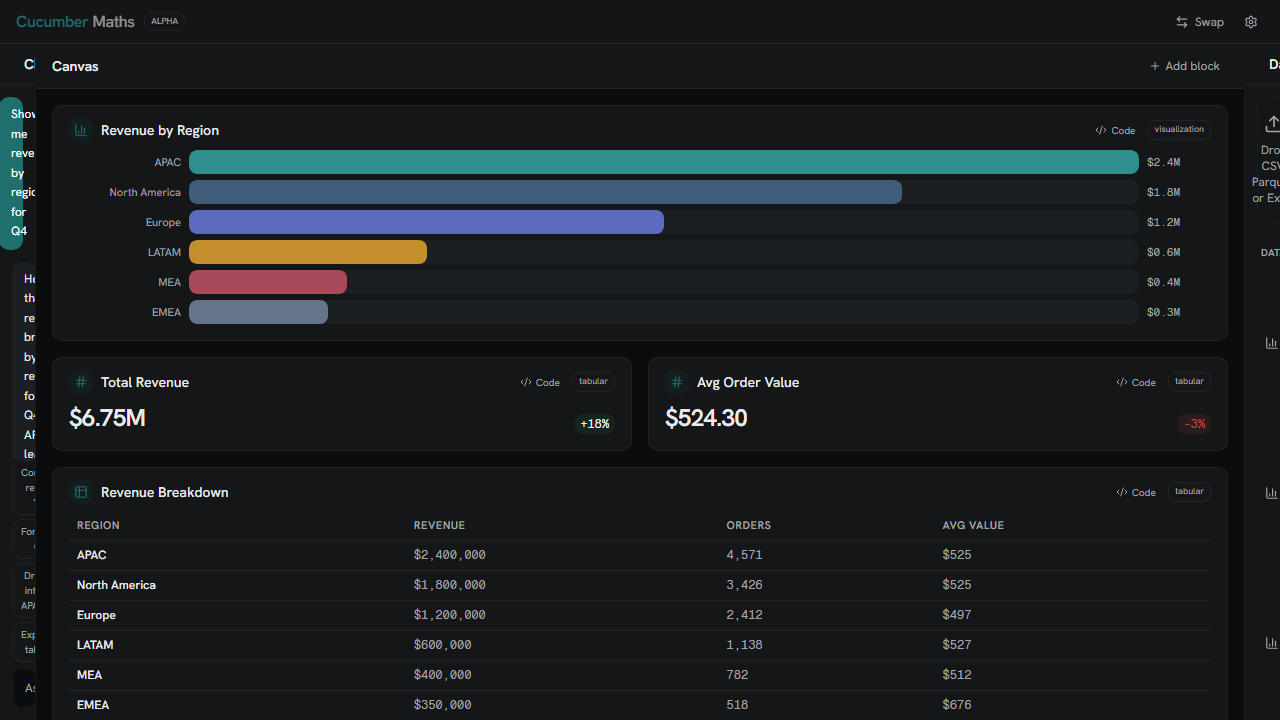
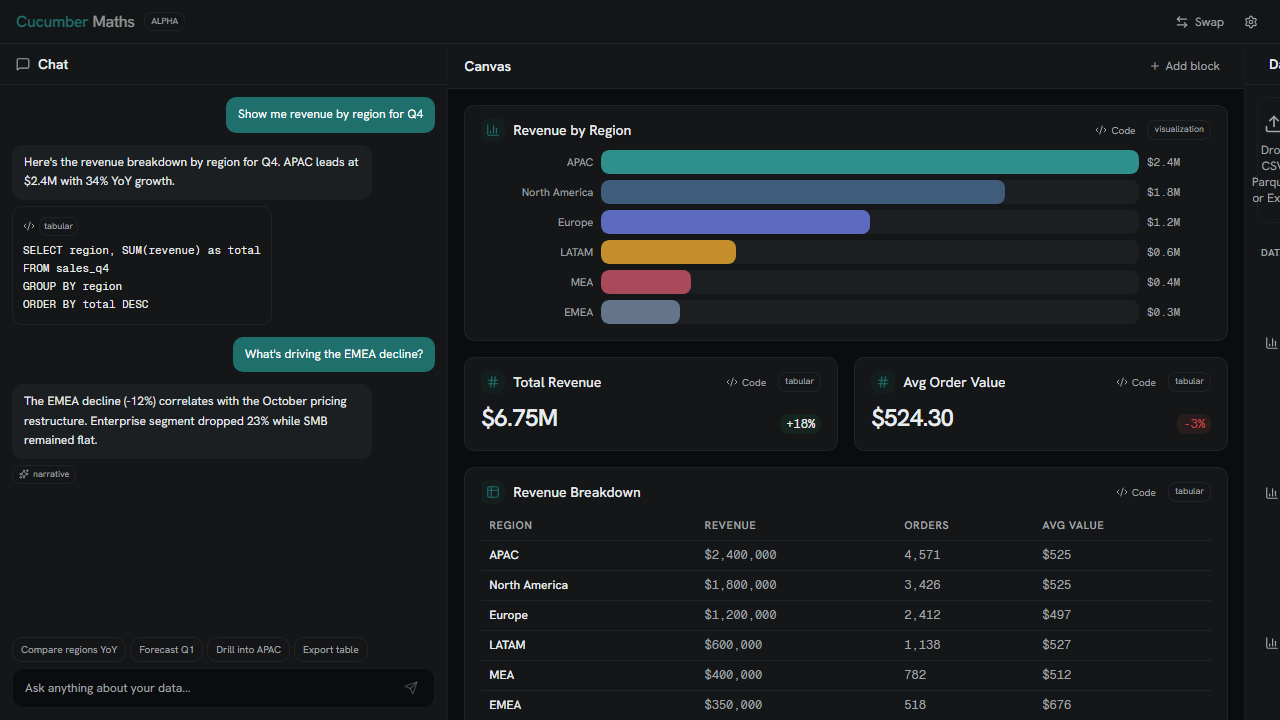
fix: ensure ALL panel limits are percentages (string constants) to prevent 35px collapse

diff --git a/src/client/App.tsx b/src/client/App.tsx
@@ -15,7 +15,7 @@ export default function App() {
         <div className="flex flex-col h-screen w-screen overflow-hidden bg-background text-foreground">
             <Header onSwapSidebars={swapSidebars} />
             <div className="flex-1 min-h-0">
-                <Group id="main-layout-v4" orientation="horizontal">
+                <Group id="main-layout-v5" orientation="horizontal">
                     <Panel id="left" defaultSize={25} minSize="15" maxSize="35" className="h-full">
                         {leftPanel}
                     </Panel>
@@ -24,7 +24,7 @@ export default function App() {
                         <Canvas />
                     </Panel>
                     <Separator className="w-px bg-border hover:bg-primary/30 transition-colors duration-150 cursor-col-resize" />
-                    <Panel id="right" defaultSize={25} minSize={15} maxSize={35} className="h-full">
+                    <Panel id="right" defaultSize={25} minSize="15" maxSize="35" className="h-full">
                         {rightPanel}
                     </Panel>
                 </Group>
